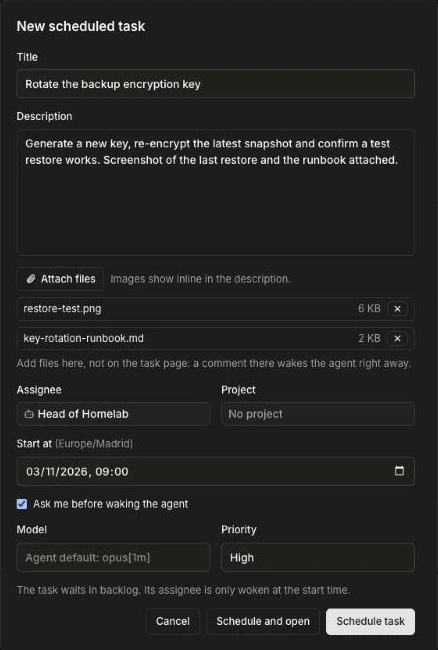
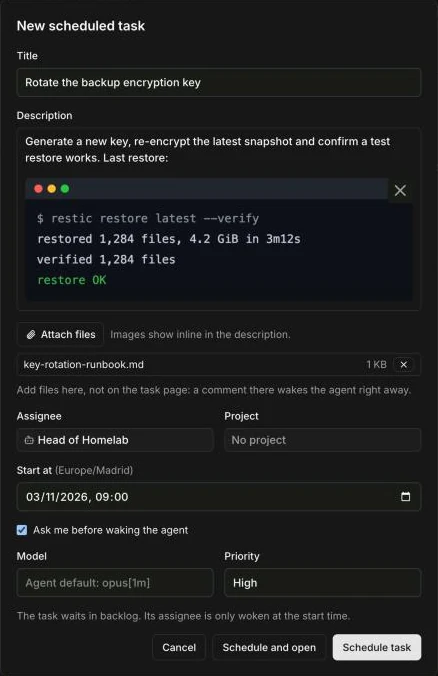
docs: new dialog screenshot with a pasted image

diff --git a/README.md b/README.md
@@ -154,7 +154,7 @@ them.
    wakes the agent before the start time.
 
 <p align="center">
-  <img src="docs/new-task.webp" width="438" alt="New scheduled task dialog: title, description, two attached files, assignee, project, start time in Europe/Madrid, ask first, model, priority, and the Schedule and open button">
+  <img src="docs/new-task.webp" width="438" alt="New scheduled task dialog: title, a description with a pasted screenshot, an attached file, assignee, project, start time in Europe/Madrid, ask first, model, priority, and the Schedule and open button">
 </p>
 
 Put files and context in the dialog rather than in a comment on the task page.
